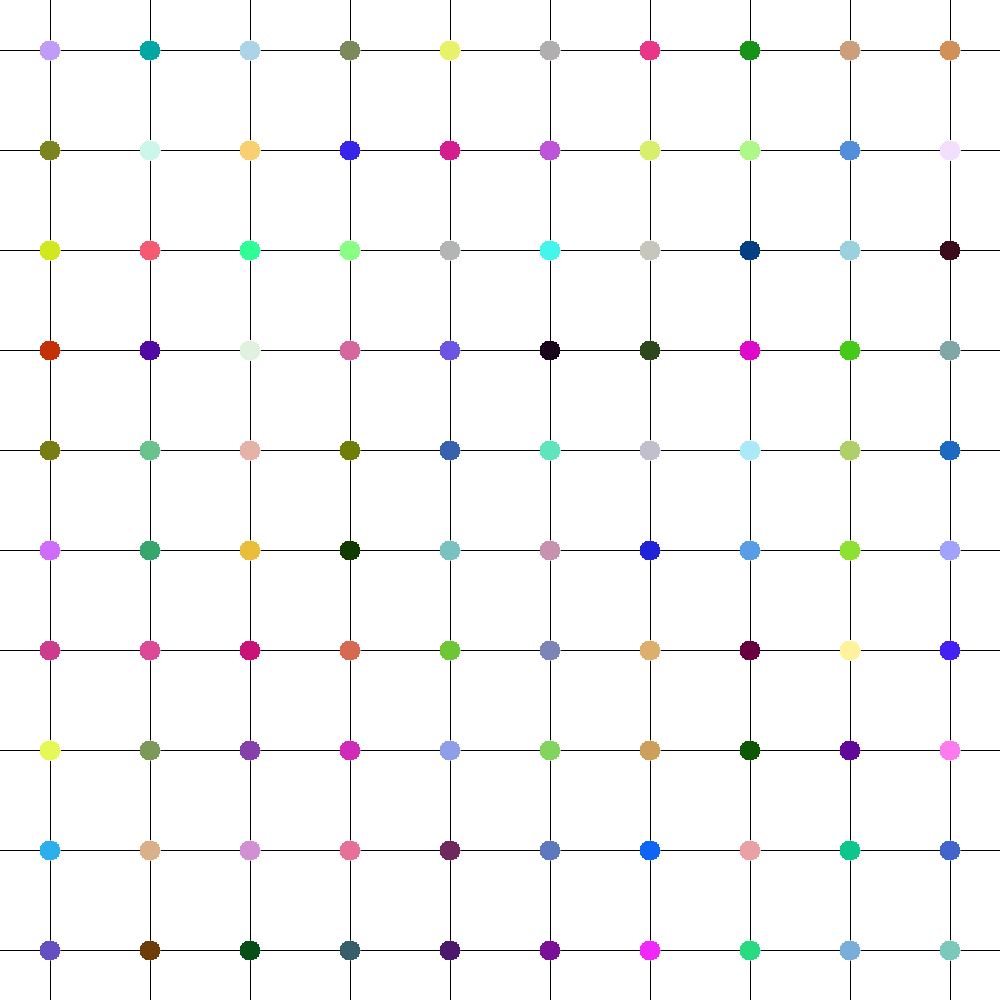
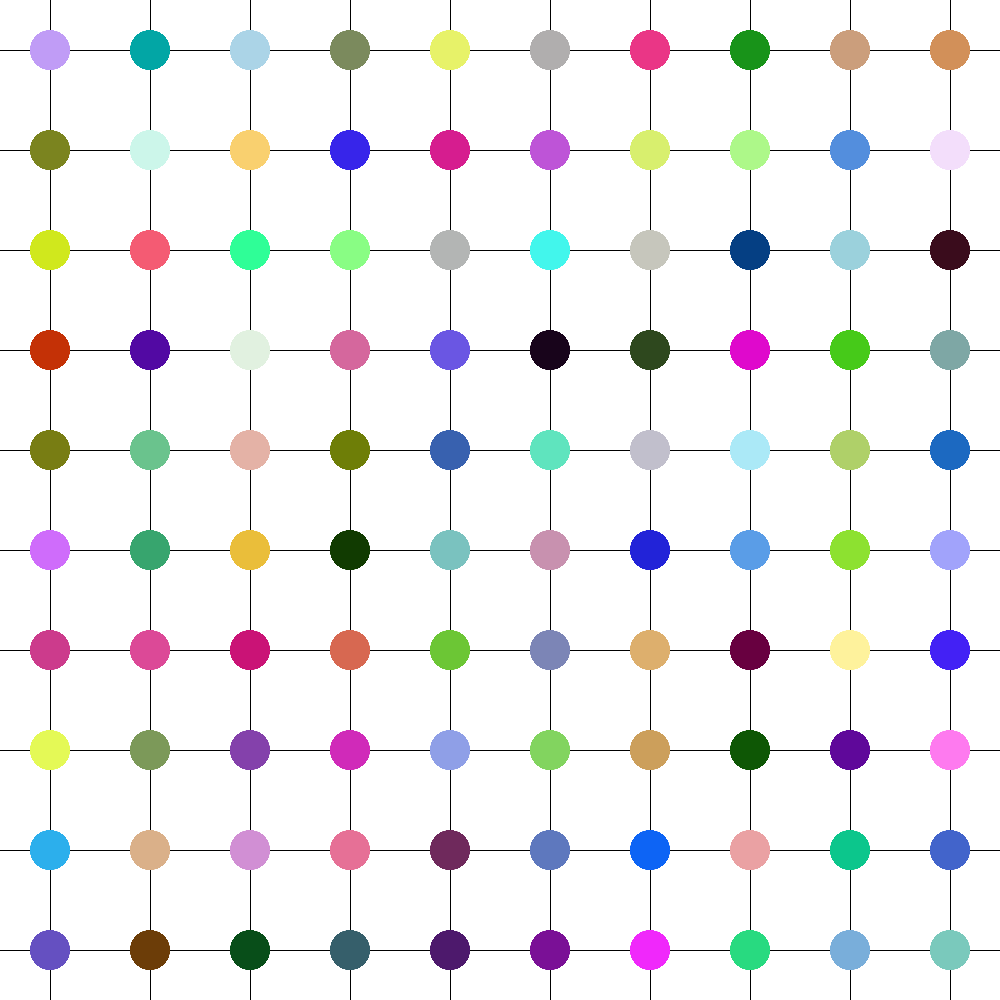
Changes

diff --git a/client/show/video/imageCreator.cpp b/client/show/video/imageCreator.cpp
@@ -51,25 +51,16 @@ static cv::Vec3b randomColor() {
 }
 
 int main(int agrc, char **argv) {
+  constexpr int AAFactor = 16;
+  constexpr int numRows = 10;
   constexpr int d = 1000;
-  cv::Mat_<cv::Vec3b> out(d, d, cv::Vec3b(255, 255, 255));
+  cv::Mat_<cv::Vec3b> out(AAFactor*d, AAFactor*d, cv::Vec3b(255, 255, 255));
+  constexpr int distBetweenRows = d*AAFactor/numRows;
 
-  for (int j = 50; j < d; j += 100) {
-    for (int i = 0; i < d; ++i) {
-      out(j, i) = cv::Vec3b(0, 0, 0);
-    }
-  }
-
-  for (int j = 0; j < d; ++j) {
-    for (int i = 50; i < d; i += 100) {
-      out(j, i) = cv::Vec3b(0, 0, 0);
-    }
-  }
-
-  for (int j = 50; j < d; j += 100) {
-    for (int i = 50; i < d; i += 100) {
+  for (int j = distBetweenRows/2; j < out.rows; j += distBetweenRows) {
+    for (int i = distBetweenRows/2; i < out.cols; i += distBetweenRows) {
       auto color = randomColor();
-      constexpr double maxRadius = 10;
+      constexpr double maxRadius = 20*AAFactor;
       for (double radius = 0; radius <= maxRadius; radius += 0.5) {
         for (double y = -radius; y <= radius; ++y) {
           double xMag = std::sqrt(radius * radius - y * y);
@@ -81,7 +72,24 @@ int main(int agrc, char **argv) {
     }
   }
 
-  cv::imwrite("grid.png", out);
+  cv::Mat_<cv::Vec3b> AA;
+  cv::resize(out, AA, cv::Size(d, d));
+
+  for (int j = distBetweenRows/2/AAFactor; j < AA.rows; j += distBetweenRows/AAFactor) {
+    for (int i = 0; i < AA.cols; ++i) {
+      if (AA(j, i) == cv::Vec3b(255, 255, 255))
+        AA(j, i) = cv::Vec3b(0, 0, 0);
+    }
+  }
+
+  for (int j = 0; j < AA.rows; ++j) {
+    for (int i = distBetweenRows/2/AAFactor; i < AA.cols; i += distBetweenRows/AAFactor) {
+      if (AA(j, i) == cv::Vec3b(255, 255, 255))
+        AA(j, i) = cv::Vec3b(0, 0, 0);
+    }
+  }
+
+  cv::imwrite("grid.png", AA);
 
   /*cv::Mat in = cv::imread(argv[1], CV_LOAD_IMAGE_ANYDEPTH |
   CV_LOAD_IMAGE_COLOR);
